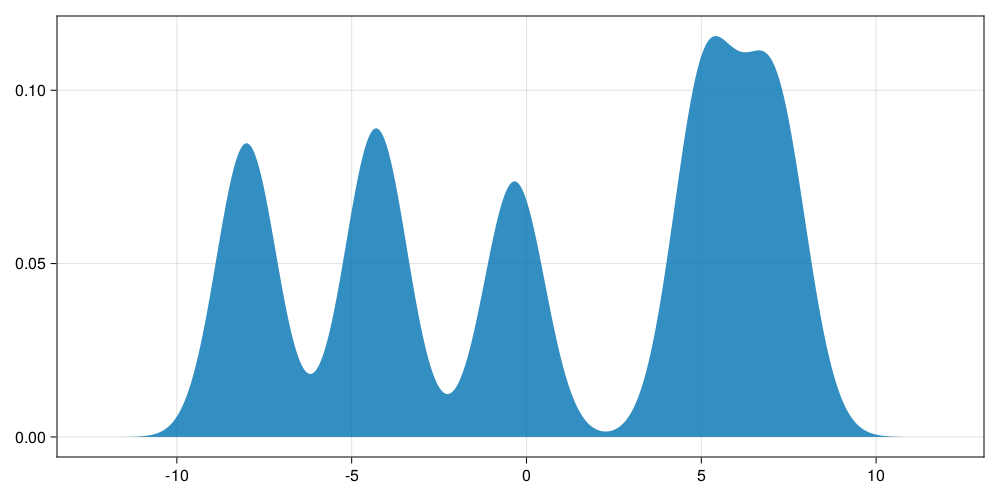
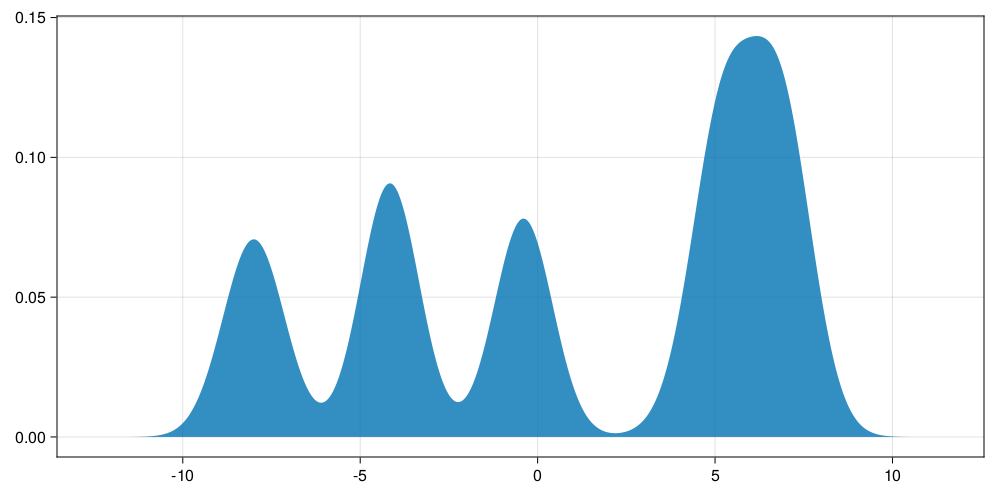
Updated docs.

diff --git a/docs/src/index.md b/docs/src/index.md
@@ -10,7 +10,7 @@ This package provides a simple interface for defining, training, and deploying M
 
 First, let's create our dataset. To properly demonstrate the power of MDNs, we'll generate a many-to-one dataset where each x-value can map to more than one y-value.
 ```julia
-using Distributions, CairoMakie, MixtureDensityNetworks
+using Flux, Distributions, CairoMakie, MixtureDensityNetworks
 
 const n_samples = 1000
 
@@ -21,16 +21,19 @@ fig, ax, plt = scatter(X[1,:], Y[1,:], markersize=5)
 
 ![](figures/Data.png)
 
-Now we'll define our model and training parameters. For this example, we construct a network with 2 hidden layers of size 128, 5 Gaussian 
-mixtures, and we train for 1000 epochs. All other hyperparameters are set to their default values.
+Now we'll define a standard univariate MDN. For this example, we construct a network with 2 hidden layers of size 128, which outputs a distribution
+with 5 Gaussian mixtures.
 ```julia
-model = MDN(epochs=1000, mixtures=5, layers=[128, 128])
+model = MixtureDensityNetwork(1, 1, [128, 128], 5)
 ```
 
-We can fit our model to our training data by calling `fit!(model, X, Y)`. This method returns the learning curve, which we plot below.
+We can fit our model to our data by calling `fit!(m, X, Y; opt=Flux.Adam(), batchsize=32, epochs=100)`. We specify that we want to train our model for
+500 epochs with the Adam optimiser and a batch size of 128. This method returns the model with the lowest loss as its first value and a named tuple 
+containing the learning curve, best epoch, and lowest loss observed during training as its second value. We can use Makie's `lines` method to visualize
+the learning curve.
 ```julia
-lc = fit!(model, X, Y)
-fig, _, _ = lines(1:1000, lc, axis=(;xlabel="Epochs", ylabel="Loss"))
+model, report = tMixtureDensityNetworks.fit!(model, X, Y; epochs=500, opt=Flux.Adam(1e-3), batchsize=128)
+fig, _, _ = lines(1:500, lc, axis=(;xlabel="Epochs", ylabel="Loss"))
 ```
 
 ![](figures/LearningCurve.png)
@@ -38,8 +41,8 @@ fig, _, _ = lines(1:1000, lc, axis=(;xlabel="Epochs", ylabel="Loss"))
 Let's evaluate how well our model learned to replicate our data by plotting both the learned and true distributions. We observe that our model
 has indeed learned to replicate the true distribution.
 ```julia
-Ŷ = predict(model, X)
-fig, ax, plt = scatter(X[1,:], rand.(Ŷ), markersize=3, label="Predicted Distribution")
+Ŷ = model(X)
+fig, ax, plt = scatter(X[1,:], rand.(Ŷ), markersize=4, label="Predicted Distribution")
 scatter!(ax, X[1,:], Y[1,:], markersize=3, label="True Distribution")
 axislegend(ax, position=:lt)
 ```
@@ -48,7 +51,7 @@ axislegend(ax, position=:lt)
 
 We can also visualize the conditional distribution predicted by our model at x = -2.0.
 ```julia
-cond = predict(model, reshape([-2.0], (1,1)))[1]
+cond = model(reshape([-2.1], (1,1)))[1]
 fig = Figure(resolution=(1000, 500))
 density(fig[1,1], rand(cond, 10000), npoints=10000)
 ```
@@ -61,7 +64,8 @@ using MixtureDensityNetworks, Distributions, CairoMakie, Logging, TerminalLogger
 
 const n_samples = 1000
 const epochs = 1000
-const mixtures = 6
+const batchsize = 128
+const mixtures = 8
 const layers = [128, 128]
 
 function main()
@@ -69,11 +73,11 @@ function main()
     X, Y = generate_data(n_samples)
 
     # Create Model
-    machine = MixtureDensityNetworks.Machine(MDN(epochs=epochs, mixtures=mixtures, layers=layers))
+    model = MixtureDensityNetwork(1, 1, layers, mixtures)
 
     # Fit Model
-    report = with_logger(TerminalLogger()) do 
-        fit!(machine, X, Y)
+    model, report = with_logger(TerminalLogger()) do 
+        MixtureDensityNetworks.fit!(model, X, Y; epochs=epochs, opt=Flux.Adam(1e-3), batchsize=batchsize)
     end
 
     # Plot Learning Curve
@@ -81,14 +85,14 @@ function main()
     save("LearningCurve.png", fig)
 
     # Plot Learned Distribution
-    Ŷ = predict(machine, X)
+    Ŷ = model(X)
     fig, ax, plt = scatter(X[1,:], rand.(Ŷ), markersize=4, label="Predicted Distribution")
     scatter!(ax, X[1,:], Y[1,:], markersize=3, label="True Distribution")
     axislegend(ax, position=:lt)
     save("PredictedDistribution.png", fig)
 
     # Plot Conditional Distribution
-    cond = predict(machine, reshape([-2.0], (1,1)))[1]
+    cond = model(reshape([-2.1], (1,1)))[1]
     fig = Figure(resolution=(1000, 500))
     density(fig[1,1], rand(cond, 10000), npoints=10000)
     save("ConditionalDistribution.png", fig)

diff --git a/docs/src/mlj.md b/docs/src/mlj.md
@@ -8,11 +8,14 @@ This package implements the interface specified by [MLJModelInterface](https://g
 with the MLJ ecosystem. Below is an example demonstrating the use of this package in conjunction with MLJ. 
 
 ```julia
-using MixtureDensityNetworks, Distributions, Logging, TerminalLoggers, CairoMakie, MLJ
+using MixtureDensityNetworks, Distributions, Logging, TerminalLoggers, CairoMakie, MLJ, Random
+
+Random.seed!(123)
 
 const n_samples = 1000
-const epochs = 1000
-const mixtures = 6
+const epochs = 500
+const batchsize = 128
+const mixtures = 8
 const layers = [128, 128]
 
 function main()
@@ -20,9 +23,9 @@ function main()
     X, Y = generate_data(n_samples)
 
     # Create Model
-    mach = MLJ.machine(MDN(epochs=epochs, mixtures=mixtures, layers=layers), MLJ.table(X'), Y[1,:])
+    mach = MLJ.machine(MDN(epochs=epochs, mixtures=mixtures, layers=layers, batchsize=batchsize), MLJ.table(X'), Y[1,:])
 
-    # Evaluate Model
+    # Fit Model on Training Data, Then Evaluate on Test
     with_logger(TerminalLogger()) do 
         @info "Evaluating..."
         evaluation = MLJ.evaluate!(
@@ -36,7 +39,7 @@ function main()
         @info "Metrics: " * join(["$name: $metric" for (name, metric) in zip(names, metrics)], ", ")
     end
 
-    # Fit Model
+    # Fit Model on Entire Dataset
     with_logger(TerminalLogger()) do 
         @info "Training..."
         MLJ.fit!(mach)
